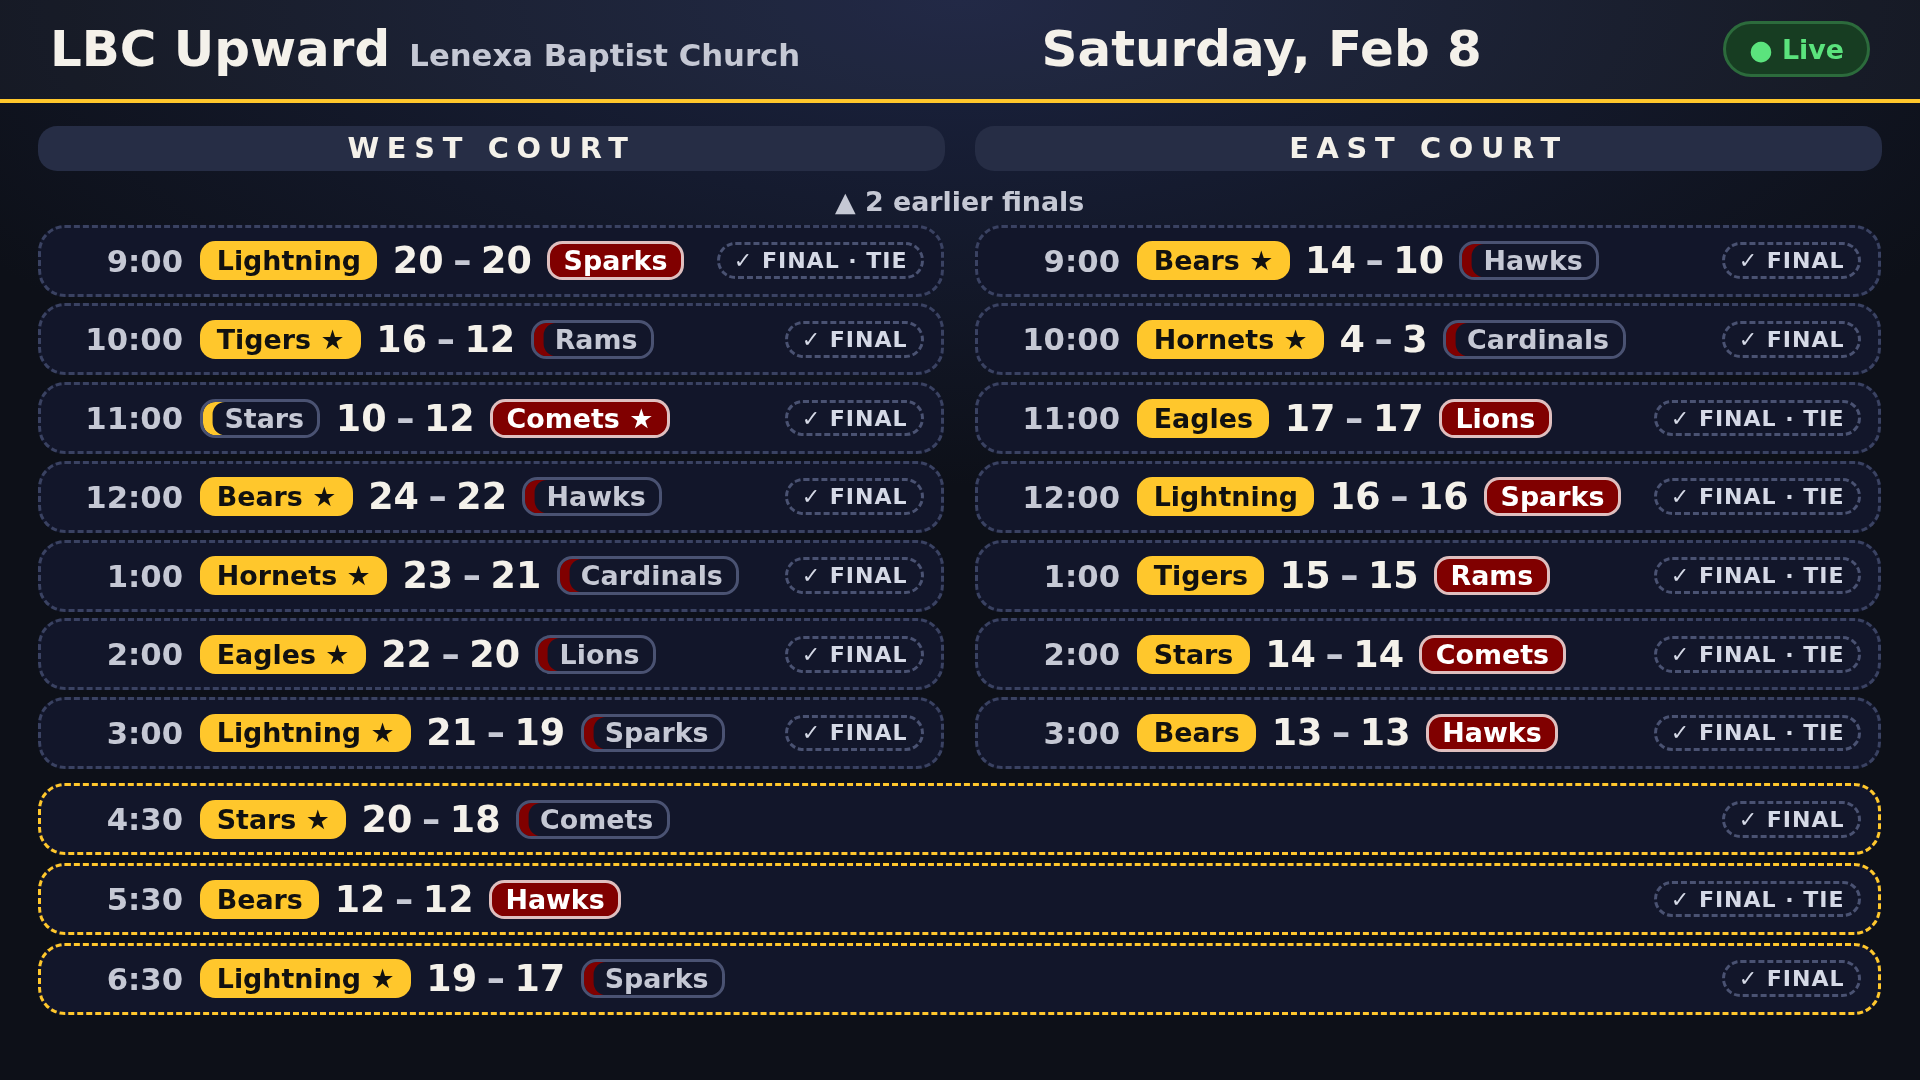
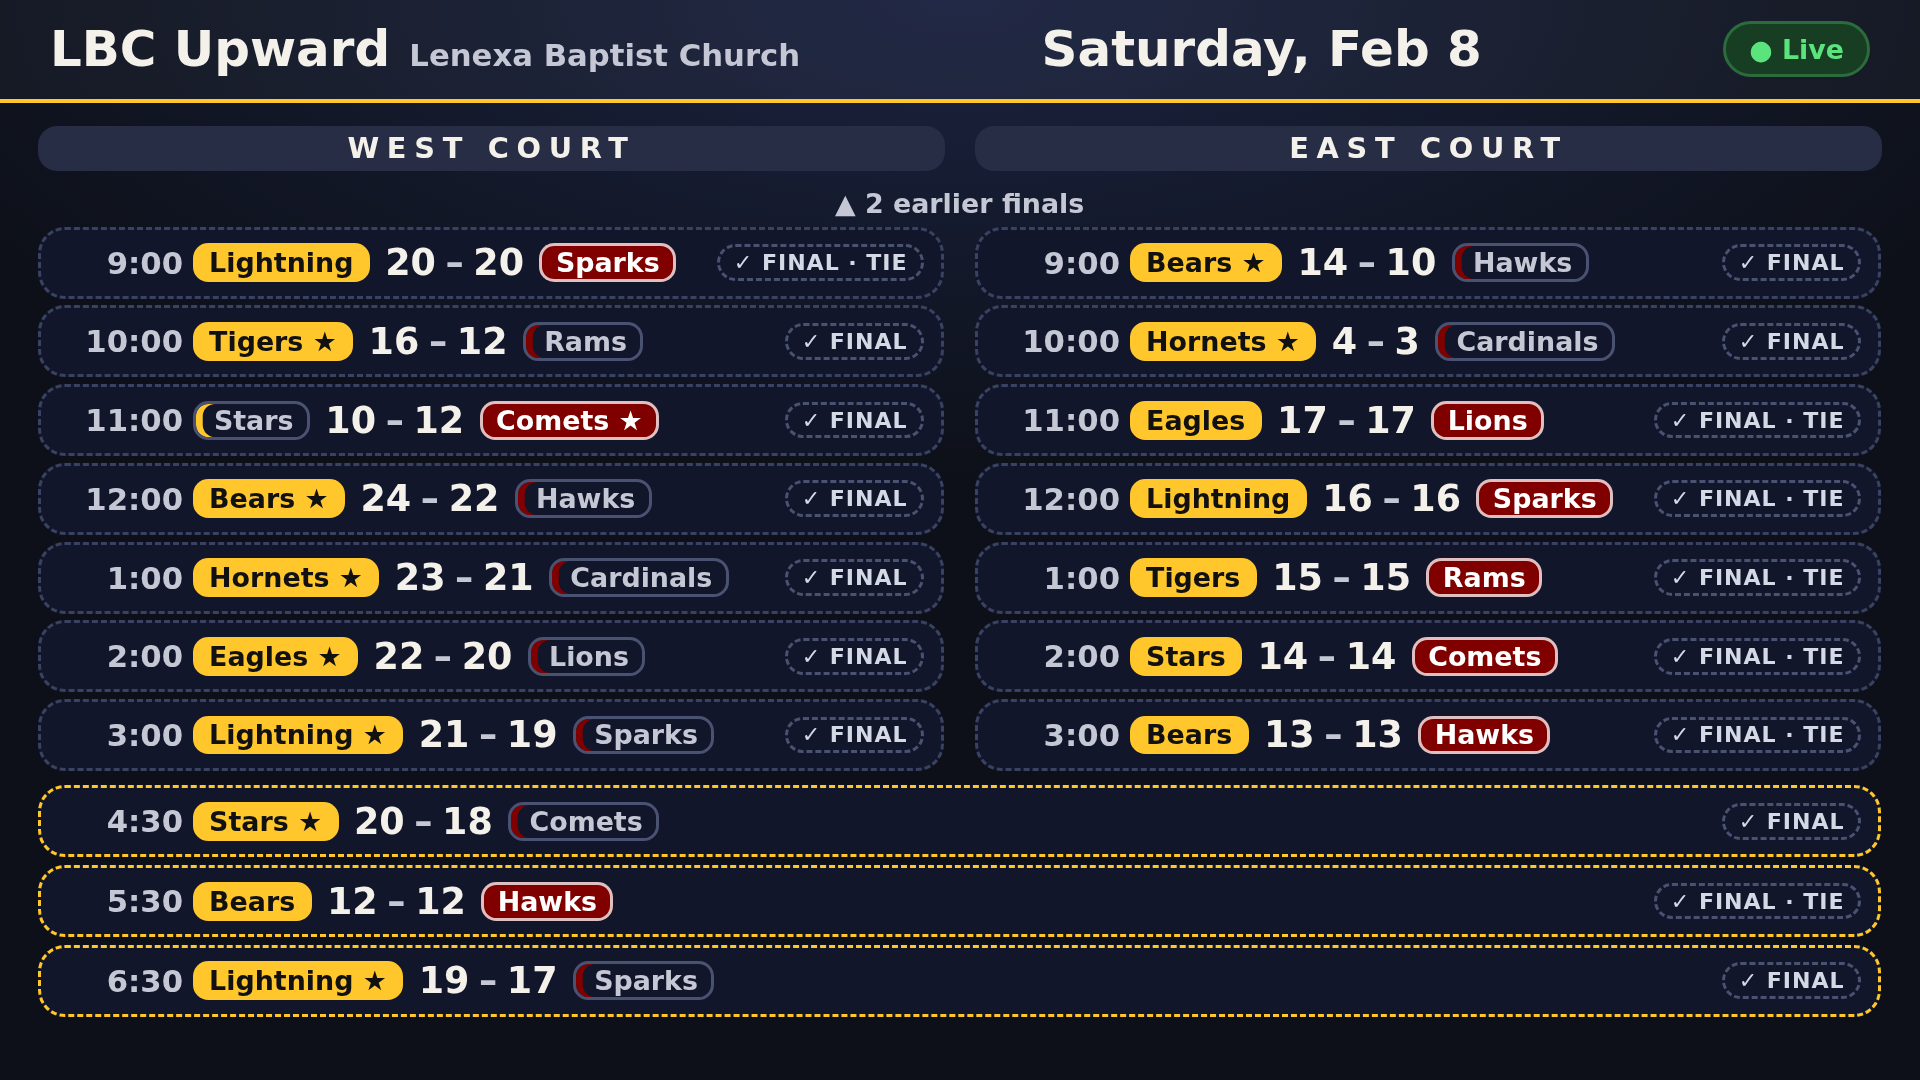
Schedule pinned rows aligned by time across West/East (data-empty cell where a court has no pinned game; Full rows full-width); title = full team name on name chips; tests + e2e row checks; screenshots

Changed region(s): [[0.0312, 0.1833, 0.9688, 0.9472]]

diff --git a/public/schedule.js b/public/schedule.js
@@ -36,6 +36,8 @@ function gameEl(g, isNext, compact) {
   setText(el, 'time', t12(g.time));
   setText(el, 'grade-label', g.label || g.grade || '');
   setText(el, 'home-name', g.home.name); setText(el, 'away-name', g.away.name);
+  // Full name on hover/inspection (compact finals can cut long names off with an ellipsis).
+  el.querySelector('[data-bind="home-name"]').title = g.home.name || ''; el.querySelector('[data-bind="away-name"]').title = g.away.name || '';
   if (state === 'upcoming') { const sc = el.querySelector('.score'); sc.className = 'score vs'; sc.textContent = 'vs'; }
   else { setText(el, 'home-score', hs); setText(el, 'away-score', as); }
   // Cheer squads: omit the .cheer div when there's none.
@@ -55,7 +57,7 @@ function gameEl(g, isNext, compact) {
 function slot(time, child) { const s = document.createElement('div'); s.className = 'slot'; s.dataset.time = time; if (child) s.appendChild(child); else s.dataset.empty = 'true'; return s; }
 
 /** Blocks -> DOM: West/East runs share one .split (two .court-col, one aligned .slot per time); Full rows span both. */
-function buildBlocks(games, nextIds, compact = false, pinnedMode = false) {
+function buildBlocks(games, nextIds, compact = false) {
   const frag = document.createDocumentFragment();
   for (const b of blocksOf(games)) {
     if (b.type === 'full') {
@@ -65,8 +67,8 @@ function buildBlocks(games, nextIds, compact = false, pinnedMode = false) {
     const wrap = document.createElement('div'); wrap.className = 'split';
     for (const c of SPLIT) {
       const col = document.createElement('section'); col.className = 'court-col'; col.dataset.court = c;
-      // Pinned: only real games (no data-empty placeholders); each court lists its live + next top-aligned.
-      for (const r of b.rows) if (r[c] || !pinnedMode) col.appendChild(slot(r.time, r[c] ? gameEl(r[c], nextIds.has(r[c].id), compact) : null));
+      // One row per time across West/East (pinned and track alike); a court without a game then gets data-empty.
+      for (const r of b.rows) col.appendChild(slot(r.time, r[c] ? gameEl(r[c], nextIds.has(r[c].id), compact) : null));
       wrap.appendChild(col);
     }
     frag.appendChild(wrap);
@@ -87,7 +89,7 @@ function render() {
   // overflow), finals last and only in the leftover space (most recent first to stay, the rest "▲ N earlier finals").
   plan = planSchedule(snap.games);
   if (plan.phase) root.dataset.phase = plan.phase; else delete root.dataset.phase;
-  pinned.replaceChildren(buildBlocks(plan.pinned, plan.nextIds, false, true));
+  pinned.replaceChildren(buildBlocks(plan.pinned, plan.nextIds));
   pinned.hidden = !plan.pinned.length;
   $('.heads').hidden = !snap.games.some((g) => SPLIT.includes(g.court)); // omitted on Fridays (Full only)
   // Empty day: hide the court heads, show .empty (outside the track, so paging can't move it).

diff --git a/test/schedule-paging.test.ts b/test/schedule-paging.test.ts
@@ -80,3 +80,14 @@ test('page offsets: one page when it fits, breaks at row tops otherwise', { skip
   const tops = [0, 100, 200, 300, 400, 500, 600], bots = tops.map((t) => t + 90);
   assert.deepEqual(v.pageOffsets(tops, bots, 300), [0, 300, 600]); // a row is never cut
 });
+
+test('pinned rows align by time across West/East (empty cell where a court has no pinned game), Full stays full-width', { skip }, async () => {
+  const v = await load();
+  const mid = v.planSchedule(day((t, c) => (t < '10:00' || (t === '10:00' && c === 'west') ? 'complete' : t === '10:00' ? 'active' : 'scheduled')));
+  const b = v.blocksOf(mid.pinned);
+  assert.deepEqual(b.map((r: any) => r.type), ['split']);
+  assert.deepEqual(b[0].rows.map((r: any) => [r.time, r.west && 'game', r.east && 'game']), [['10:00', null, 'game'], ['11:00', 'game', 'game']]);
+  const late = v.blocksOf(v.planSchedule(day((t) => (t < '15:00' ? 'complete' : t === '15:00' ? 'active' : 'scheduled'))).pinned);
+  assert.deepEqual(late.map((r: any) => r.type), ['split', 'full']);
+  assert.equal(late[0].rows.length, 1);
+});

diff --git a/public/schedule-view.js b/public/schedule-view.js
@@ -57,7 +57,7 @@ export function planSchedule(games) {
 }
 
 /**
- * Blocks in time order: runs of West/East games share one two-column block with one row per time (a missing court is
+ * Blocks in time order (used for .sched-pinned and .sched-track): runs of West/East games share one two-column block with one row per time (a missing court is
  * null, so both columns stay aligned); each Full Court game is its own full-width row.
  */
 export function blocksOf(games) {

diff --git a/deliverables/UpwardScoreboard-POC.md b/deliverables/UpwardScoreboard-POC.md
@@ -280,9 +280,9 @@ Paging scenes (browser e2e, 1920x1080, scripts/schedule-paging-e2e.mjs):
 
 **Tests (2026-10, freshly rebuilt container):** unit 23/23 (gender, demo weekend, seed invariants, warnings, home-first markup/templates); smoke 169/169 run twice on the same used database (gender, warnings incl. legacy two-cheer CSV, schedule routes, snapshot, live updates on swap/start/score/complete, read-only, home first); browser flow 19/19, lockout 8/8, offline 11/11; latency median 8.7 ms, p95 10.7 ms. The cheer migration was verified on the box's old data (3 games moved, 2 with both sides set kept home and were logged).
 
-**Tests (paging rule, 2026-10-16):** unit 30/30 (adds phase, pinned selection, ordering, aligned blocks, finals collapse, page breaks); schedule paging browser e2e 28/28 at 1920x1080 (early, mid-day incl. page 2, end: live + next in .sched-pinned, fully visible, unmoved across a page turn, no empty pinned slots, order, compact finals inside the last page, ≥1 compact final mid-day, dots only on overflow); smoke 173/173 twice; flow 19/19, lockout 8/8, offline 11/11.
+**Tests (paging rule, 2026-10-16):** unit 31/31 (adds phase, pinned row alignment, pinned selection, ordering, aligned blocks, finals collapse, page breaks); schedule paging browser e2e 32/32 (3 runs) at 1920x1080 (early, mid-day incl. page 2, end: live + next in .sched-pinned, fully visible, unmoved across a page turn, pinned rows aligned by time (same time = same top, different times = different rows), name titles, order, compact finals inside the last page, ≥1 compact final mid-day, dots only on overflow); smoke 173/173; flow 19/19, lockout 8/8, offline 11/11.
 
-**Hooks for Sage** (functional markup only; schedule.css is a minimal placeholder for Sage to replace). Structure matches docs/mockups/schedule-structure.md: root `data-conn` (connecting|online|offline), `data-day` (fri|sat|…), `data-date`, `data-page` (0-based), `data-pages`, `--offset` (and `--page`) in px, class `overflows`, `has-active`; `.sched-track` also gets `--offset` + `data-page`; `.heads` hidden when the day has no split games; `.sched-pinned` (live + UP NEXT, outside `.sched-view`, never translated; only real games, no `data-empty` slots; each court's column top-aligned), `.sched-track` = later upcoming then finals (only it pages; `data-offsets` lists the page tops in px), `.game[data-compact=true]` on finals shown in the leftover space, `.earlier` (inside the track, just above the shown finals) text "▲ N earlier finals" (empty when none), root `data-phase` (early|midday|end; absent with no games); `.foot` gets one `<i>` per page (`.on` = current), empty with one page. Per game: `.court-col[data-court=west|east] > .slot[data-time]` (empty slot keeps rows aligned: `data-empty`), `.full-row > .slot > .game[data-span=full]`, `.game[data-state=complete|active|upcoming]`, `[data-winner=home|away|tie]` on complete, `[data-next=true]` on each court's next game, `[data-swapped]`, `[data-court]`, `[data-game-id]`, class `has-cheer`; chips `.chip.home` / `.chip.away` with `data-wear=light|dark` and `--team-color` / `--team-accent` (colors only); `.score` for active/complete, `.score.vs` for upcoming; `.pc` (period + clock) only on active; `.cheer` (img `cheer-logo` + `cheer-name`) only with a squad. data-binds: time, grade-label, home-name, away-name, home-score, away-score, cheer, cheer-logo, period, clock, status-tag, brand, church-name, day, connText, earlier. TV: one `.cheer` in `section.center` after `.poss` (binds cheer / cheer-logo, root `has-cheer`); per-side cheer binds retired. Admin: new Gender select (Teams form), Gender column, `#schedule-warnings` box, `.warn-tag` and `tr.has-warning` in game rows, single cheer fieldset (unstyled additions).
+**Hooks for Sage** (functional markup only; schedule.css is a minimal placeholder for Sage to replace). Structure matches docs/mockups/schedule-structure.md: root `data-conn` (connecting|online|offline), `data-day` (fri|sat|…), `data-date`, `data-page` (0-based), `data-pages`, `--offset` (and `--page`) in px, class `overflows`, `has-active`; `.sched-track` also gets `--offset` + `data-page`; `.heads` hidden when the day has no split games; `.sched-pinned` (live + UP NEXT, outside `.sched-view`, never translated; rows aligned by time across West/East like the track: one `.slot[data-time]` per time in each `.court-col`, `data-empty` where a court has no pinned game at that time; Full Court rows full-width), `.sched-track` = later upcoming then finals (only it pages; `data-offsets` lists the page tops in px), `.game[data-compact=true]` on finals shown in the leftover space, `.earlier` (inside the track, just above the shown finals) text "▲ N earlier finals" (empty when none), root `data-phase` (early|midday|end; absent with no games); `.foot` gets one `<i>` per page (`.on` = current), empty with one page. Per game: `.court-col[data-court=west|east] > .slot[data-time]` (empty slot keeps rows aligned: `data-empty`), `.full-row > .slot > .game[data-span=full]`, `.game[data-state=complete|active|upcoming]`, `[data-winner=home|away|tie]` on complete, `[data-next=true]` on each court's next game, `[data-swapped]`, `[data-court]`, `[data-game-id]`, class `has-cheer`; chips `.chip.home` / `.chip.away` (with `title` = full team name) with `data-wear=light|dark` and `--team-color` / `--team-accent` (colors only); `.score` for active/complete, `.score.vs` for upcoming; `.pc` (period + clock) only on active; `.cheer` (img `cheer-logo` + `cheer-name`) only with a squad. data-binds: time, grade-label, home-name, away-name, home-score, away-score, cheer, cheer-logo, period, clock, status-tag, brand, church-name, day, connText, earlier. TV: one `.cheer` in `section.center` after `.poss` (binds cheer / cheer-logo, root `has-cheer`); per-side cheer binds retired. Admin: new Gender select (Teams form), Gender column, `#schedule-warnings` box, `.warn-tag` and `tr.has-warning` in game rows, single cheer fieldset (unstyled additions).
 
 ## 4. Architecture and stack rationale
 
